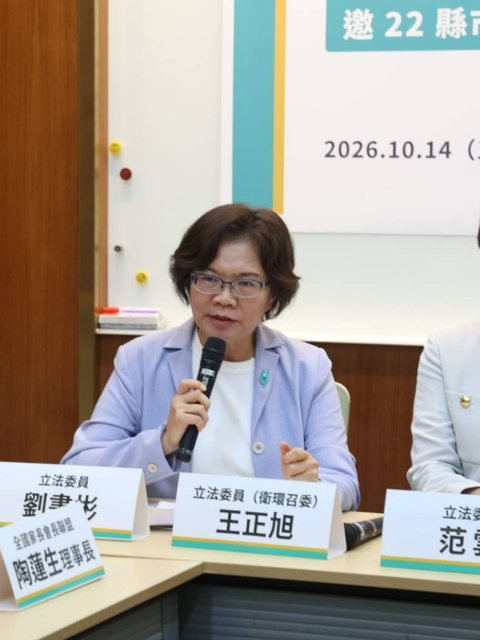
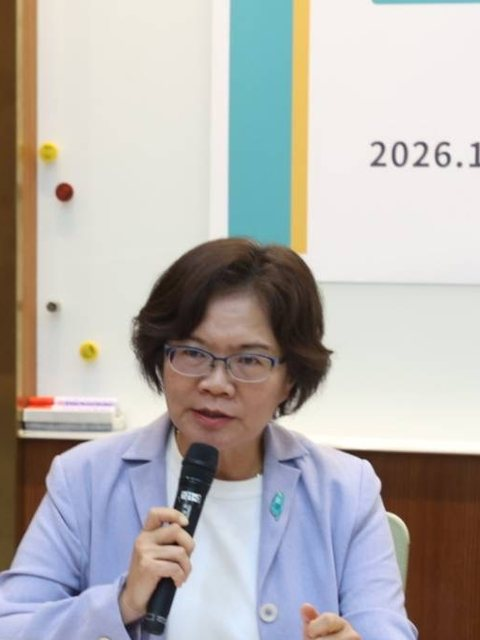
feat(press): 10/14 新聞稿頁加三位立法委員（陳菁徽、王正旭、范雲）與張珏發言照；劉書彬照重裁去桌牌；撤承諾書展示照（理事長 17:5x）

diff --git a/public/press/2026-10-14-child-pledge-launch/index.html b/public/press/2026-10-14-child-pledge-launch/index.html
@@ -274,18 +274,19 @@ figure.photo.portrait{max-width:300px}
   <p>王瀚陽指出：「<strong>孩子與家庭不應只是社會福利預算中的一個項目，而應是城市長期發展的重要投資</strong>。地方政府每一項政策，都應該思考能不能讓孩子成長得更好、讓家庭生活得更安心，並把資源真正投入服務，而不是停留在政策口號。」</p>
   <h2 class="section-h">心理健康不只在下游救人　更要從上游打造幸福城市</h2>
   <p>臺灣心理健康聯盟召集人張珏指出，心理健康城市不是只有兒童、青少年或育兒家庭的議題，而是涵蓋全年齡市民的共同需求。從兒少的成長、成年人的工作與家庭壓力，到長者的社會參與與生活支持，都與城市政策密切相關。她強調，<strong>心理健康治理不能只在下游提供治療與危機救助，更要從中游的預防與心理韌性培養，走向上游改善貧窮、歧視與社會不平等</strong>，讓城市不只是適合養育孩子，更是讓每個年齡、每種生活處境的人都能安心生活、健康而有尊嚴地成長與老去。</p>
+  <figure class="photo portrait"><img src="photo-chang-chueh.jpg" width="480" height="640" alt="臺灣心理健康聯盟召集人張珏發言" loading="lazy"><figcaption>臺灣心理健康聯盟召集人張珏：心理健康治理不能只在下游提供治療與危機救助，更要從中游的預防與心理韌性培養，走向上游改善貧窮、歧視與社會不平等。</figcaption></figure>
   <p>臺灣心理健康聯盟《心理健康城市六項承諾書》因此不只關注諮商與醫療，更從日常心理健康促進、跨局處治理、當事人參與、社區支持、服務可及性及危機復原等面向，提出城市應承擔的責任。兩份承諾書由不同團體發起、分別簽署與公開追蹤。</p>
   <h2 class="section-h">從家庭、校園到不同需求的兒少　把城市支持真正做到位</h2>
   <p>全國家長會長聯盟理事長陶蓮生強調，「<strong>讓老師安心教學、家長放心託付、孩子穩定學習</strong>」，應是地方政府共同努力的目標。家庭韌性行動聯盟召集人林嘉慧指出，孩子的成長不只是家庭的責任，更需要學校、社區與政府共同支持。中華民國中小學校長協會副理事長簡信斌則提醒，政策不能只增加學校責任，更要同步提供人力、經費與專業支持。</p>
   <p>針對不同需求兒少的支持，財團法人赤子心教育基金會董事長林玲華指出，<strong>孩子需要的協助不能等到正式鑑定完成才開始</strong>；台灣青少年神經多樣性行動協會理事長甄瑞興強調，支持不能只停在診間或教室，更要延伸到孩子每天的生活。中華公民人權協會理事長蔡沛華則表示：「<strong>孩子不只是等待被保護的對象，更是城市未來的參與者。</strong>」</p>
   <p>此外，未出席的中華民國兒童健康聯盟理事長林志嘉及中華民國營養師公會全國聯合會，分別提出<a href="https://aabe.org.tw/press/2026-10-14-child-pledge-launch/attachments/">書面意見</a>，關注友善育兒設施、兒少健康與保護，以及學校午餐營養品質、食品安全及專業人力等議題。</p>
-  <figure class="photo"><img src="photo-pledges.jpg" width="1200" height="800" alt="民間代表與出席立委展示《兒少十大承諾書》與《心理健康城市六項承諾書》。" loading="lazy"><figcaption>民間代表與出席立委展示《兒少十大承諾書》與《心理健康城市六項承諾書》。</figcaption></figure>
   <h2 class="section-h">邀三黨立法委員接力轉達　讓政策承諾留下可檢視的進度</h2>
   <p>國民黨立法委員陳菁徽、民進黨立法委員王正旭與范雲、民眾黨立法委員劉書彬均出席記者會，接受兩份承諾書交付，並受邀協助轉達各黨提名的縣市長參選人。<strong>接受文件不代表立委或政黨已簽署或背書。</strong>國教盟也將依一致規則，直接寄送全國22縣市長參選人，包括無黨籍參選人。</p>
   <p>「兒少十大承諾」要求簽署且當選的縣市長，<strong>於就任100日內公布所勾選項目的現況盤點、主責局處、服務處理時限、分年執行期程與經費規劃</strong>，之後每年公布執行結果。這是公開施政規劃的承諾，並非要求所有政策在100日內完成；「心理健康城市六項承諾」則依其各項條款及獨立公開機制追蹤。</p>
   <p>兩份承諾書均於<strong>11月11日下午6時截止回覆</strong>，逾期仍接受；國教盟預定於11月18日公布「兒少十大承諾書」回覆結果。所有參選人適用一致規則：<strong>不評分、不排名、不推薦任何人</strong>。</p>
   <p>以下為各立法委員於記者會現場的發言，屬其個人立場；本聯盟對所有參選人適用一致規則，不評分、不排名、不推薦任何人。</p>
   <div class="person-card"><span class="avatar" aria-hidden="true">陳</span><span><strong>陳菁徽</strong><small>立法委員</small></span></div>
+  <figure class="photo portrait"><img src="photo-chen-jing-hui.jpg" width="480" height="640" alt="立法委員陳菁徽發言" loading="lazy"><figcaption>立法委員陳菁徽：穩定師資與教學一貫性是教育品質的基礎。</figcaption></figure>
   <p>立法委員陳菁徽表示，身為婦產科醫師，也是三個孩子的母親，她深刻體會校園是兒少成長的重要生活場域。一座友善兒少的城市，應從教育品質、心理健康及校園安全著手，讓孩子在穩定且受到支持的環境中成長。</p>
   <p>陳菁徽指出，穩定師資與教學一貫性是教育品質的基礎。面對學生不同的學習需求與心理健康狀況，政府應充實輔導及專業支持資源，同時推動教師行政減量、人力補充、專業訓練及待遇提升，<strong>不能將所有責任與壓力轉嫁給第一線教師</strong>。</p>
   <p>針對電子煙及新興毒品透過網路與社群媒體接觸兒少的問題，她強調，政府不能只在孩子使用後才介入，更應由衛福部、內政部及教育部強化跨部會合作，從源頭供應、流通管道到校園防制全面著手，守護兒少健康與校園安全。</p>
@@ -294,11 +295,13 @@ figure.photo.portrait{max-width:300px}
   <p>立法委員劉書彬表示，心理健康不只是醫療問題，更是教育、家庭與城市治理的重要課題。<strong>政府不能等到孩子出現憂鬱症狀、家庭陷入困境，才開始提供協助</strong>，而應將預防與支持融入地方施政，建立從校園、家庭、職場到社區的支持網絡。</p>
   <p>劉書彬強調，地方政府應優先推動三項工作：<strong>充實校園輔導人力、減輕教師負擔；整合教育、衛生與社政資源，及早提供協助；建立公開透明的政策指標，讓承諾可以落實、成果能夠檢驗。</strong>她期待各縣市長參選人不分黨派，將兒少與心理健康承諾轉化為具體行動，讓每個孩子有人關心、每個家庭有人支持，每位市民都能安心生活。</p>
   <div class="person-card"><span class="avatar" aria-hidden="true">王</span><span><strong>王正旭</strong><small>立法委員</small></span></div>
+  <figure class="photo portrait"><img src="photo-wang-cheng-hsu.jpg" width="480" height="640" alt="立法委員王正旭發言" loading="lazy"><figcaption>立法委員王正旭：沒有資源支撐的承諾只是空頭支票。</figcaption></figure>
   <p>立法委員王正旭表示，國教行動聯盟與臺灣心理健康聯盟等民間團體向各參選人提出兒少十大承諾書與心理健康城市六項承諾書，將兒少權益與心理健康拉升到城市治理的高度，是值得肯定的進步方向。</p>
   <p>王正旭指出，「心理健康城市六項承諾」應從「醫療防堵」走向「系統預防」，也高度贊同「心理健康主流化」。心理健康不應被窄化為多聘幾個心理師或多開幾間精神科，而是所有城市政策，如教育、勞動、都市空間設計，都必須進行「心理健康影響評估」。王正旭也呼籲參選人不能只簽承諾，必須提出具體的財政規劃，例如基層社工與輔導人員的勞動條件是否改善、社區心理衛生中心的量能是否充足；<strong>沒有資源支撐的承諾只是空頭支票</strong>。</p>
   <p>王正旭並指出，「兒少十大承諾」應從「家長焦慮」走向「兒少主體」，除了建構接住所有孩子的安全網，也必須強化校園與社區的連結。當孩子在學校出現霸凌、拒學等危機，學校、醫療與社區家庭必須有清晰的資訊銜接機制，不該讓家長或基層教師獨自承擔。推動校園安全或網癮防治時，也應兼顧《兒童權利公約》（CRC）的精神；保護兒少不應演變為過度管控或侵害隱私，而是要培力孩子具備自我保護與數位素養的能力。</p>
   <p>王正旭強調，未來的教育與兒少政策，不能只有家長團體或專家學者的聲音，更必須建立讓兒少自己發聲的實質機制。<strong>孩子才是政策的直接影響者</strong>，聽見他們的真實需求，城市治理才會真正看見死角。</p>
   <div class="person-card"><span class="avatar" aria-hidden="true">范</span><span><strong>范雲</strong><small>立法委員</small></span></div>
+  <figure class="photo portrait"><img src="photo-fan-yun.jpg" width="480" height="640" alt="立法委員范雲發言" loading="lazy"><figcaption>立法委員范雲：投資兒少，就是投資台灣的未來。</figcaption></figure>
   <p>立法委員范雲表示，如何判斷一座城市的進步，不是只看有多少建設，而是要看這座城市，怎麼對待孩子。今天很榮幸代表民進黨，接下這份承諾書，這十大承諾，每一點都是孩子和家長最真實的需求，也是從中央到地方要努力的方向。<strong>投資兒少，就是投資台灣的未來</strong>，「我會和所有民進黨的縣市長候選人一起努力！」</p>
   <h2 class="section-h">結語：讓每個孩子安心長大</h2>
   <p>王瀚陽最後表示：「<strong>一座城市如何對待孩子與家庭，決定了這座城市的未來。</strong>當全國22縣市都願意把孩子的成長、家庭的需要放在施政核心，讓每個孩子都能安心長大、每個家庭都能獲得支持，這就不只是城市的進步，更是整個台灣的幸福與希望。」</p>
